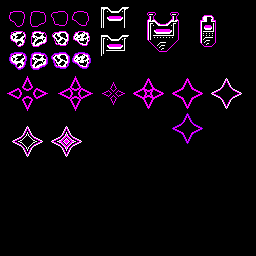
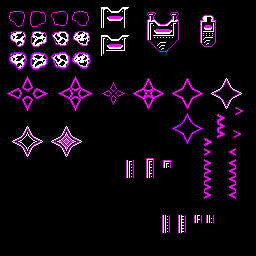
minor changes to environment art + generated ts rons + segment creation test

diff --git a/tiled/tsx/tiles_green.tsx b/tiled/tsx/tiles_green.tsx
@@ -1,0 +1,4 @@
+<?xml version="1.0" encoding="UTF-8"?>
+<tileset version="1.4" tiledversion="1.4.3" name="tiles_green" tilewidth="8" tileheight="8" tilecount="126" columns="18">
+ <image source="../../resources/spritesheets/tiles/tiles_green.png" width="144" height="62"/>
+</tileset>

diff --git a/tiled/tsx/tiles_red.tsx b/tiled/tsx/tiles_red.tsx
@@ -1,0 +1,4 @@
+<?xml version="1.0" encoding="UTF-8"?>
+<tileset version="1.4" tiledversion="1.4.3" name="tiles_red" tilewidth="8" tileheight="8" tilecount="592" columns="37">
+ <image source="../../resources/spritesheets/tiles/tiles_red.png" width="300" height="128"/>
+</tileset>
